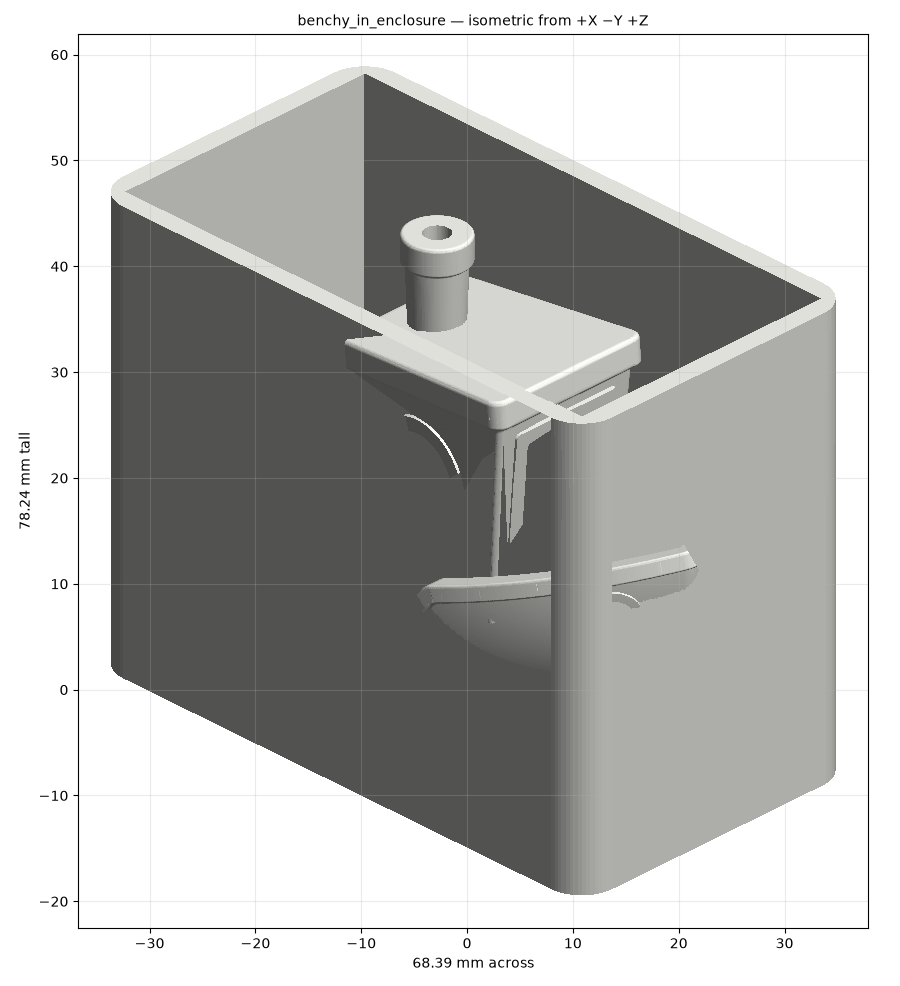
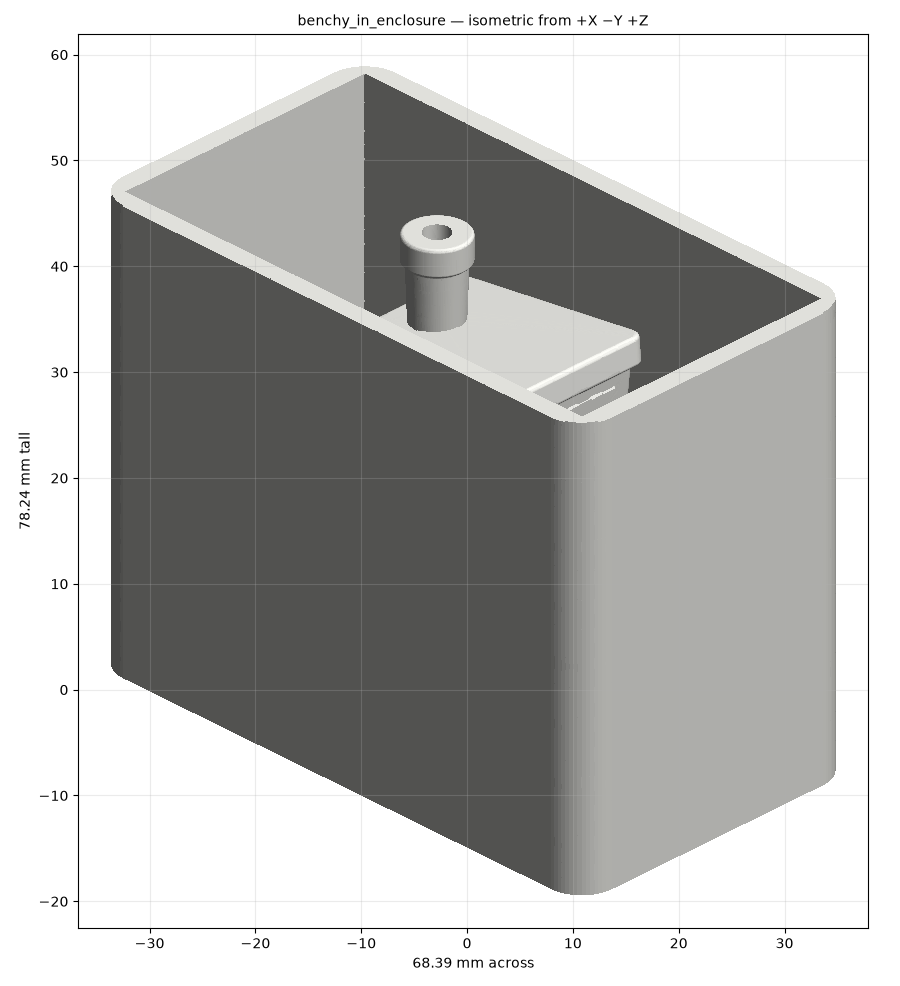
Render: split long triangles before the painter's depth sort
A part inside an open box was drawn over the near wall because a wall face is
two triangles whose centroids sit behind the part. Regression test added.

Claude-Session: https://claude.ai/code/session_0116ccWVxmiMMnta16211yCz

Changed region(s): [[0.3733, 0.3347, 0.6222, 0.6694], [0.6844, 0.5477, 0.7778, 0.6389], [0.4667, 0.426, 0.4978, 0.4564]]

diff --git a/src/calipers/render.py b/src/calipers/render.py
@@ -55,12 +55,33 @@ def _decimated(mesh):
         return mesh
 
 
+MAX_EDGE_FRACTION = 0.03  # of the bbox diagonal: longer triangles are split before depth sorting
+
+
+def _painter_ready(mesh):
+    """Split long triangles so a painter's sort by centroid depth cannot draw a far object over a
+    near wall (a 60 mm wall face is two triangles whose centroids sit *behind* a part inside the box)."""
+    import trimesh
+
+    max_edge = MAX_EDGE_FRACTION * float(np.linalg.norm(mesh.extents))
+    edges = mesh.vertices[mesh.edges_unique]
+    if max_edge <= 0 or np.linalg.norm(edges[:, 0] - edges[:, 1], axis=1).max() <= max_edge:
+        return mesh
+    try:
+        v, f = trimesh.remesh.subdivide_to_size(mesh.vertices, mesh.faces, max_edge=max_edge, max_iter=6)
+    except Exception:
+        return mesh
+    if len(f) > 4 * MAX_RENDER_FACES:
+        return mesh
+    return trimesh.Trimesh(vertices=v, faces=f, process=False)
+
+
 def render_view(model: Model, view: str, out_path: str | os.PathLike, size_px: int = 900, title: Optional[str] = None) -> str:
     """Shaded orthographic view of the model's mesh, saved as PNG. Returns the path."""
     if view not in VIEWS:
         raise ValueError(f"unknown view {view!r}; choose from {sorted(VIEWS)}")
     cam, up, label = VIEWS[view]
-    mesh = _decimated(model.mesh)
+    mesh = _painter_ready(_decimated(model.mesh))
     x, y, z = _camera(cam, up)
     tri = np.asarray(mesh.triangles)  # (n, 3, 3)
     n = np.asarray(mesh.face_normals)

diff --git a/tests/test_phase3.py b/tests/test_phase3.py
@@ -375,3 +375,19 @@ def test_benchy_enclosure_exit_criterion(benchy_file, tmp_path):
     assert abs(by["envelope.x"]["measured"] - (60.0 + 1.2 + 4.0)) < 0.3 and abs(by["envelope.y"]["measured"] - (31.0 + 1.2 + 4.0)) < 0.3 and abs(by["envelope.z"]["measured"] - (48.0 + 1.2 + 2.0)) < 0.3
     assert abs(by["fit.0.clearance.min_distance"]["measured"] - 0.6) < 0.01
     assert by["fit.2.enclosed"]["measured"] >= 0.95
+
+
+def test_render_splits_long_triangles_before_painter_sort():
+    """Review finding (Tucker, 15 Sep): the Benchy looked as if it poked through the enclosure wall.
+    The geometry was fine (contracts exact); the painter's sort used triangle centroids, and a 60 mm
+    wall face is two triangles whose centroids sit behind the boat. Long edges are now split first."""
+    import trimesh
+
+    from calipers.render import MAX_EDGE_FRACTION, _painter_ready
+
+    box = trimesh.creation.box(extents=(60, 40, 50))
+    ready = _painter_ready(box)
+    edges = ready.vertices[ready.edges_unique]
+    longest = float(np.linalg.norm(edges[:, 0] - edges[:, 1], axis=1).max())
+    assert longest <= MAX_EDGE_FRACTION * float(np.linalg.norm(box.extents)) + 1e-9
+    assert abs(ready.volume - box.volume) < 1e-6 and ready.is_watertight

diff --git a/CHANGELOG.md b/CHANGELOG.md
@@ -44,6 +44,9 @@
   `pyproject.toml` (`E4 E7 E9 F I`), imports sorted. The first green lint then exposed that 3MF
   export needs `lxml` (trimesh's 3MF writer) — added as a dependency. `docs/images/` holds renders of the two
   generated examples (also on the status page for this release).
+- Render: long triangles are split before the painter's depth sort, so a part inside an open box
+  is no longer drawn over the near wall (Tucker spotted the Benchy "outside" its enclosure in the
+  first status renders; the contracts had it inside by exactly wall + clearance on every side).
 - Not done (carried to Phase 4): pockets and chamfers as spec features, sphere/cone/torus fits on
   meshes, fillet rings, reference features in `relations`, an independent adversarial review of
   Phase 3 (budget), CADGenBench harness.
